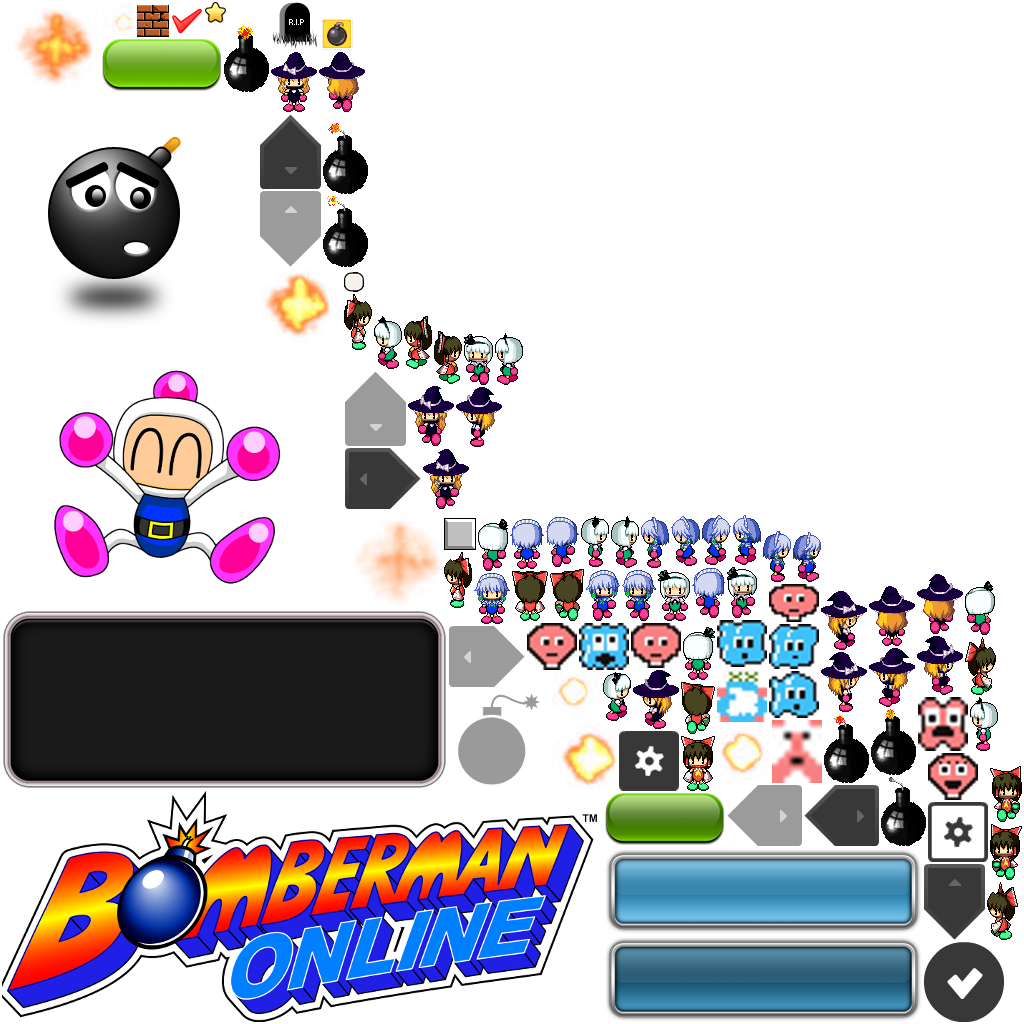
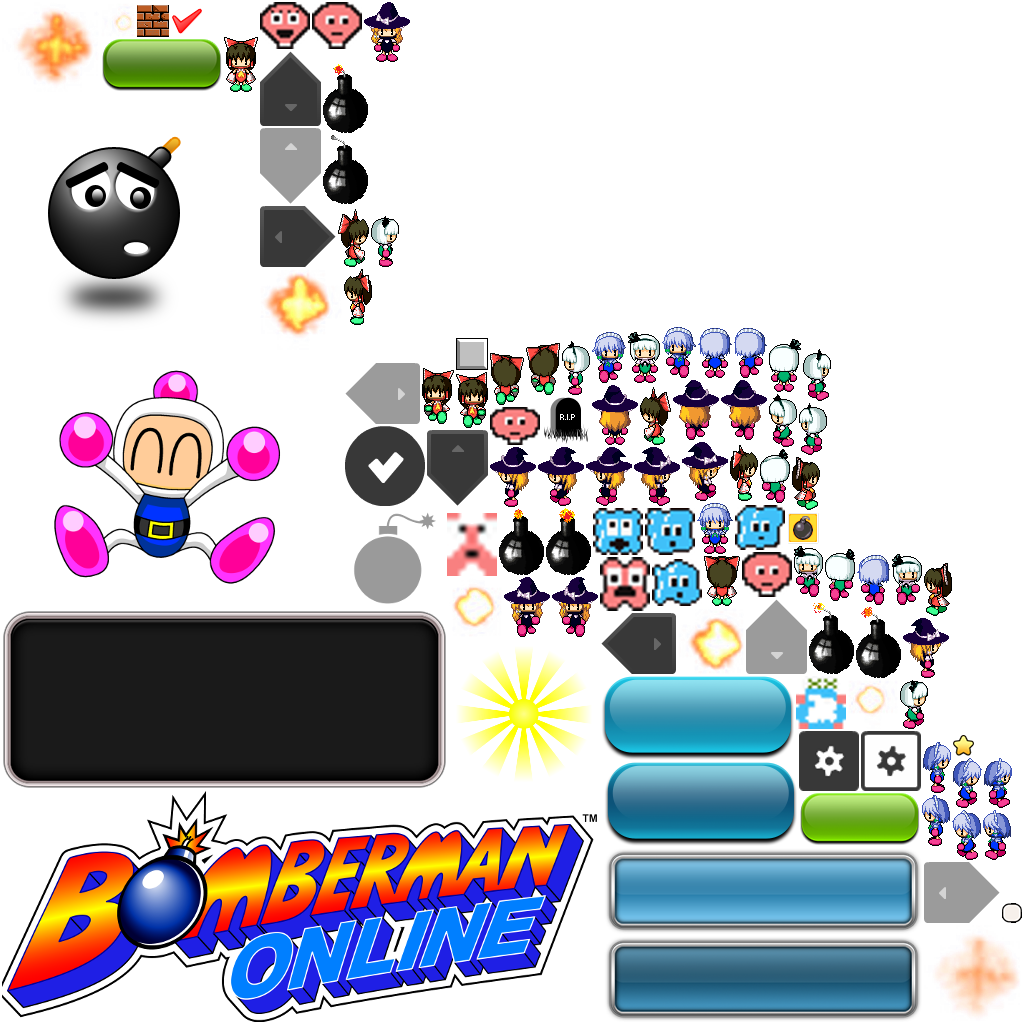
player indicator

Changed region(s): [[0.0938, 0.0, 1.0, 1.0]]

diff --git a/core/src/main/java/net/javaci/mobile/bomberman/core/view/GameScreen.java b/core/src/main/java/net/javaci/mobile/bomberman/core/view/GameScreen.java
@@ -11,6 +11,7 @@ import com.badlogic.gdx.scenes.scene2d.Actor;
 import com.badlogic.gdx.scenes.scene2d.Group;
 import com.badlogic.gdx.scenes.scene2d.InputEvent;
 import com.badlogic.gdx.scenes.scene2d.InputListener;
+import com.badlogic.gdx.scenes.scene2d.actions.Actions;
 import com.badlogic.gdx.scenes.scene2d.ui.Button;
 import com.badlogic.gdx.scenes.scene2d.ui.Image;
 import com.badlogic.gdx.scenes.scene2d.ui.Label;
@@ -641,5 +642,34 @@ public class GameScreen extends BomberManScreen {
 
         game.getAudioManager().playStartGame();
 
+        displayMyPlayerIndicator();
+    }
+
+    private void displayMyPlayerIndicator() {
+        PlayerModel me = world.getPlayerModel(UserSession.getInstance().getUsername());
+        Vector2 playerPos = new Vector2();
+        switch (me.getGameIndex()) {
+            case 1:
+                playerPos = labyrinthWidget.getWallPosition(1, 1);
+                break;
+            case 2:
+                playerPos = labyrinthWidget.getWallPosition(19, 1);
+                break;
+            case 3:
+                playerPos = labyrinthWidget.getWallPosition(19, 11);
+                break;
+            case 4:
+                playerPos = labyrinthWidget.getWallPosition(1, 11);
+                break;
+        }
+        Image sunshine = findImage("sunshine");
+        playerPos.sub(sunshine.getWidth()*.5f - world.getGridWidth()*0.5f, sunshine.getHeight()*0.5f - world.getGridHeight() * 0.5f);
+        sunshine.setPosition(playerPos.x, playerPos.y);
+        sunshine.setVisible(true);
+        sunshine.setOrigin(sunshine.getWidth() * 0.5f, sunshine.getHeight() * 0.5f);
+        sunshine.addAction(Actions.parallel(
+                Actions.forever(Actions.rotateBy(120, 1)),
+                Actions.sequence(Actions.delay(5), Actions.removeActor())
+        ));
     }
 }

diff --git a/desktop/src/main/java/net/javaci/mobile/bomberman/java/TestDesktop.java b/desktop/src/main/java/net/javaci/mobile/bomberman/java/TestDesktop.java
@@ -11,8 +11,8 @@ import net.javaci.mobile.bomberman.core.net.appwarp.AppWarpClient;
 public class TestDesktop {
 	public static void main (String[] args) {
 		LwjglApplicationConfiguration config = new LwjglApplicationConfiguration();
-        config.width = 800;
-        config.height = 480;
+        config.width = 1280;
+        config.height = 720;
 		config.useGL20 = true;
 
         BomberManGame game = new BomberManGame();
